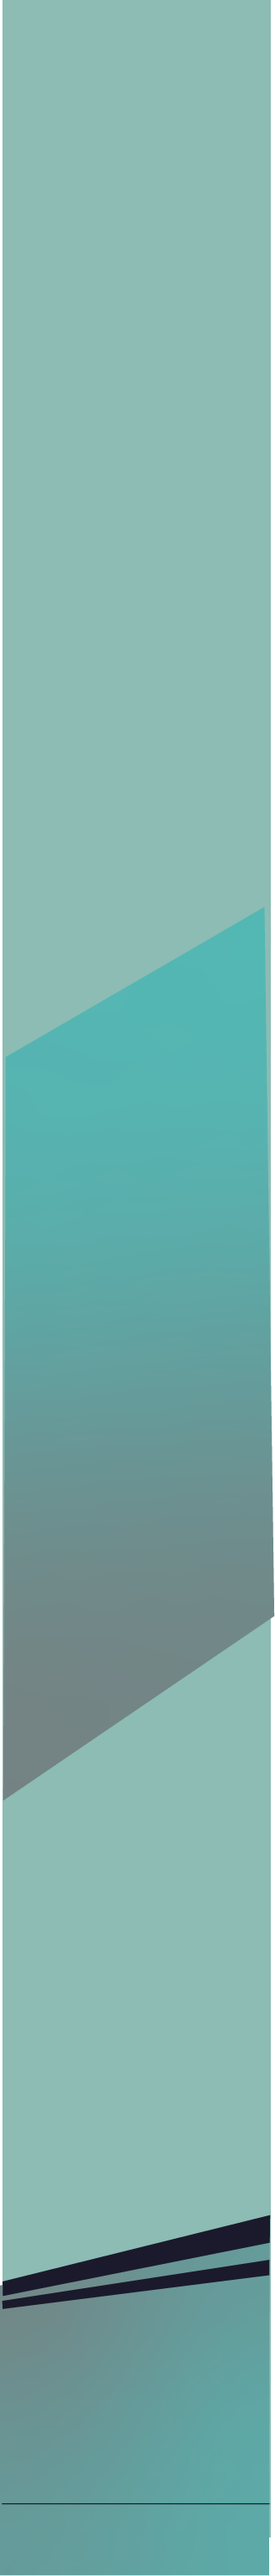
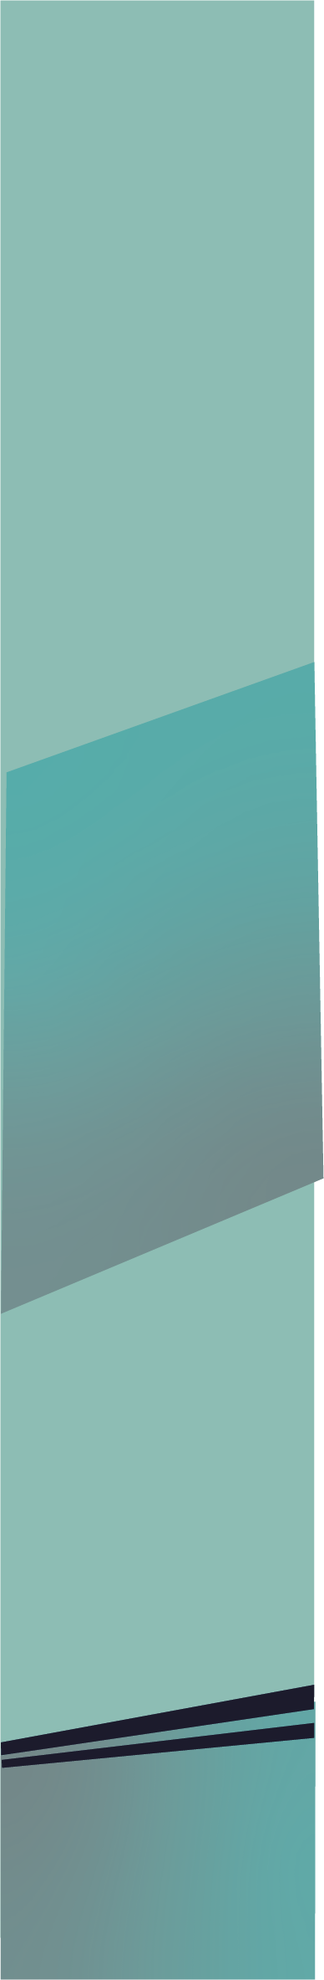
Changer les imgs background et modifier le css

Changed region(s): [[0.0, 0.0, 1.0, 1.0], [0.0, 0.9561, 0.0304, 0.9869]]

diff --git a/css/styles.css b/css/styles.css
@@ -78,7 +78,7 @@ p {
 
 .button-scroll {
   width: 80px;
-  padding: 30px 0;
+  padding: 30px 0 55px 0;
   transform: translate(145px, 0px);
 }
 
